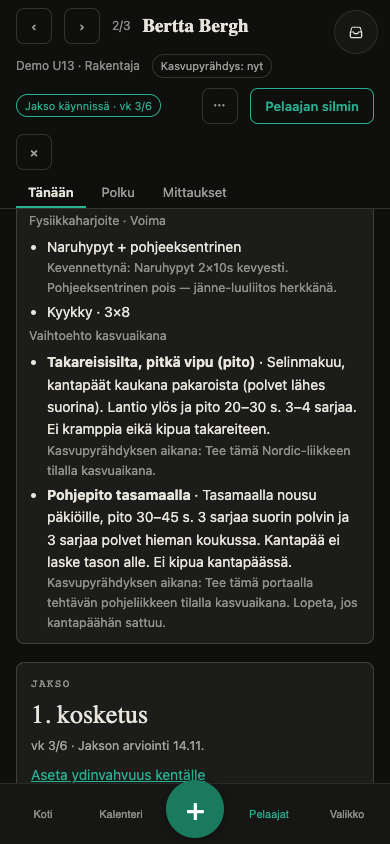
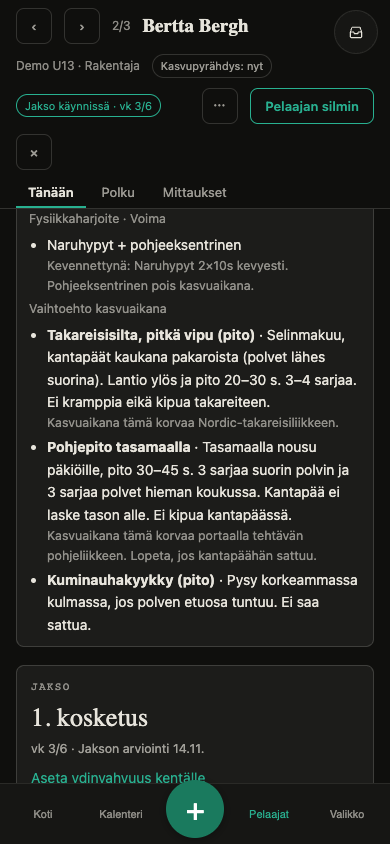
Kasvupyrähdys-fysiikka: tavallinen ohjelma ilman merkintää, kevennysrivi ilman perustelua, korvaavat ilman etuliitettä (+ kyykky → kuminauhakyykky); uudet kuvat

Changed region(s): [[0.0615, 0.2464, 0.9231, 0.7701], [0.0615, 0.8009, 0.5231, 0.9242]]

diff --git a/lib/tm_kasvupyrahdys.js b/lib/tm_kasvupyrahdys.js
@@ -2,7 +2,7 @@
    tm_kasvupyrahdys.js — kasvupyrähdys-fysiikka: Teron hyväksymä ENNEN / NYT / JÄLKEEN -taulu (116 olemassa olevaa harjoitetta) + 25 uutta harjoitetta (Teron / TalentMasterid Oy:n omaa aineistoa, docs/LISENSSIT.md).
    Dual-export: module.exports || window.TM_KASVUPYRAHDYS. PURE: ei DOM:ia, ei tallennusta.
    · Päätöskoodit: k = kyllä (normaalisti) · v = vain kevennettynä (lähteen oma kasvupyrähdysohje) · e = ei (ei näytetä). e/n/j = ENNEN / NYT / JÄLKEEN.
-   · Vaihe tulee tm_phv_tila.js:n tmPhvKuormaTila(pelaaja):sta: PRE → ennen · PH → nyt · POST/AN → jälkeen · LAH → ankarampi (ennen, nyt) · 'tuntematon' (varovainen, mittaamaton ikkunassa) → ankarin kolmesta · null (normaali kuorma) → ei suodatusta.
+   · Vaihe tulee tm_phv_tila.js:n tmPhvKuormaTila(pelaaja):sta: PRE → ennen · PH → nyt · POST/AN → jälkeen · LAH → ankarampi (ennen, nyt) · 'tuntematon' ja null (ei kasvupyrähdysmerkintää) → ei suodatusta, tavallinen ohjelma.
    · tmKpSuodata(liikkeet, tila, o) → { liikkeet, korvaavat }: ei → pois; vain kevennettynä → lähteen ohjeella (jos lähteellä ei ole omaa kevennettyä ohjetta, esim. kuntoutuspankki, liike jätetään pois); sama harjoite (sama nimi eri pankeissa) vain kerran; kun liike poistuu tai siitä poistetaan osa, ehdotetaan korvaavaa uusista.
    · NÄKYMÄ: näytetään vain nimi ja ohjeet. Tunnisteet (id), ketjukoodit (SBL, SFL, EX_…) ja Geminin perustelut eivät koskaan tule paluuarvojen näytettäviin kenttiin — vartija: tests/kasvupyrahdys_fysiikka.test.js.
    · DATA-lohko generoidaan: node scripts/phv_kasvupyrahdys_vie.cjs (lähde docs/design/idp-v2/42_kasvupyrahdys_hyvaksynta.json). ÄLÄ muokkaa käsin.
@@ -203,11 +203,11 @@
     kp_12_nimi: 'Takareisisilta, pitkä vipu (pito)',
     kp_12_vo: 'Selinmakuu, kantapäät kaukana pakaroista (polvet lähes suorina). Lantio ylös ja pito 20–30 s. 3–4 sarjaa. Ei kramppia eikä kipua takareiteen.',
     kp_12_po: 'Mene selällesi kantapäät kauas pakaroista. Nosta lantio ylös ja pidä 20–30 sekuntia. Takareisi saa tuntua, mutta ei saa sattua.',
-    kp_12_kp: 'Tee tämä Nordic-liikkeen tilalla kasvuaikana.',
+    kp_12_kp: 'Kasvuaikana tämä korvaa Nordic-takareisiliikkeen.',
     kp_13_nimi: 'Pohjepito tasamaalla',
     kp_13_vo: 'Tasamaalla nousu päkiöille, pito 30–45 s. 3 sarjaa suorin polvin ja 3 sarjaa polvet hieman koukussa. Kantapää ei laske tason alle. Ei kipua kantapäässä.',
     kp_13_po: 'Nouse varpaille lattialla ja pidä 30 sekuntia. Tee kolme kertaa suorin polvin ja kolme kertaa polvet vähän koukussa.',
-    kp_13_kp: 'Tee tämä portaalla tehtävän pohjeliikkeen tilalla kasvuaikana. Lopeta, jos kantapäähän sattuu.',
+    kp_13_kp: 'Kasvuaikana tämä korvaa portaalla tehtävän pohjeliikkeen. Lopeta, jos kantapäähän sattuu.',
     kp_14_nimi: 'Kuminauhakyykky (pito)',
     kp_14_vo: 'Paksu kuminauha polvitaipeissa kiintopisteeseen. Nojaa taakse sääret pystyssä ja pidä kivuttomassa kulmassa 4×30–45 s.',
     kp_14_po: 'Laita kuminauha polvien taakse ja kiinnitä se tukevaan paikkaan. Istu taaksepäin niin, että sääret pysyvät pystyssä. Pidä 30 sekuntia.',
@@ -274,19 +274,21 @@
   }
   function _nimiRivi(r) { return r.uusi ? FI['kp_' + r.k + '_nimi'] : r.nimi; }
   function _teksti(c, k) { var v = (c && typeof c.t === 'function') ? c.t(k) : k; return (v && v !== k) ? v : (FI[k] != null ? FI[k] : k); }
+  /* Kevennysrivi ilman perustelua: " — jänne-luuliitos herkkänä." / " — polven etuosa herkkä." → " kasvuaikana." (käännetty sv-teksti käytetään sellaisenaan). */
+  function _siisti(fi) { return String(fi).replace(/ — (jänne-luuliitos herkkänä|jänne-luuliitos herkkä|polven etuosa herkkä)\.$/, ' kasvuaikana.'); }
   function _tFi(c, fi) { var v = (c && typeof c.t === 'function') ? c.t(fi) : fi; return v || fi; }   // lähteen FI-teksti (sv-kartta avaimena FI-teksti; puuttuessa FI)
 
-  /* PHV-tila → vaihe: 'e' (ennen) | 'n' (nyt) | 'j' (jälkeen) | 'EN' (lähestyy: ennen+nyt) | 'KAIKKI' (varovainen) | null (ei suodatusta). */
+  /* PHV-tila → vaihe: 'e' (ennen) | 'n' (nyt) | 'j' (jälkeen) | 'EN' (lähestyy: ennen+nyt) | null (ei suodatusta: ei kasvupyrähdysmerkintää, mittaamaton tai normaali kuorma). */
   function tmKpVaihe(tila) {
     var t = String(tila == null ? '' : tila);
-    if (t === 'PRE') return 'e'; if (t === 'PH') return 'n'; if (t === 'POST' || t === 'AN') return 'j'; if (t === 'LAH') return 'EN'; if (t === 'tuntematon') return 'KAIKKI';
+    if (t === 'PRE') return 'e'; if (t === 'PH') return 'n'; if (t === 'POST' || t === 'AN') return 'j'; if (t === 'LAH') return 'EN';   // 'tuntematon' (ei kasvupyrähdysmerkintää) ja null → ei suodatusta: tavallinen ohjelma
     return null;
   }
   function tmKpPaatos(r, tila) {
     var v = tmKpVaihe(tila); if (!v || !r) return 'k';
     if (v === 'e' || v === 'n' || v === 'j') return r[v];
     if (v === 'EN') return _strict(r.e, r.n);
-    return _strict(_strict(r.e, r.n), r.j);
+    return 'k';
   }
   function tmKpEtsi(nimi) { return (_indeksi().nimi[_avain(nimi)] || []).slice(); }
   /* Sama harjoite (sama nimi, myös eri pankeissa) vain kerran: palauttaa listan ilman toistoja; o.aiemmat = jo käytetyt nimet (sama päivä/viikko). */
@@ -299,7 +301,7 @@
     var ids = {}; laukaisijat.forEach(function (r) { ids[String(r.id).toLowerCase()] = 1; });
     var ulos = []; var ph = String(tila) === 'PH';
     UUDET.forEach(function (u) {
-      if (ulos.length >= ((o && o.maxKorvaavat) || 2)) return;
+      if (ulos.length >= ((o && o.maxKorvaavat) || 3)) return;
       if (!u.korvaa.some(function (id) { return ids[String(id).toLowerCase()]; })) return;
       if (!_ikaOk(u, o && o.ikavaihe)) return;
       var p = tmKpPaatos(u, tila); if (p === 'e') return;
@@ -320,7 +322,7 @@
       if (p === 'v') {
         var lahde = rs.filter(function (r) { return !r.uusi && !r.hpp && r.phv; })[0] || null;
         var uusi = rs.filter(function (r) { return r.uusi; })[0] || null;
-        var teksti = lahde ? _tFi(o, lahde.phv) : (uusi ? _tFi(o, FI['kp_' + uusi.k + '_kp']) : null);
+        var teksti = lahde ? (function () { var x = _tFi(o, lahde.phv); return x === lahde.phv ? _siisti(x) : x; })() : (uusi ? _tFi(o, FI['kp_' + uusi.k + '_kp']) : null);
         if (teksti) { ulos.push(Object.assign({}, l, { kevennetty: teksti })); if (rs.some(function (r) { return r.pois; })) laukaisijat = laukaisijat.concat(rs); return; }
         // lähteellä ei omaa kevennettyä ohjetta → ei näytetä (varovaisin); jatkuu 'e'-haaraan
       }

diff --git a/tests/i18n_sv_era_lib.test.js b/tests/i18n_sv_era_lib.test.js
@@ -15,8 +15,8 @@ const LIB = require('../lib/tm_lib_i18n.js');
 const SV = LIB.TM_LIB_I18N.sv;
 const LIBIT = ['tm_kasvupyrahdys', 'tm_kt_arviointi', 'tm_kt_alue', 'tm_kt_toimintakortti', 'tm_sanasto', 'tm_kehitystyopoyta', 'tm_kevyt_katselmus', 'tm_klippi_perhe', 'tm_mediaviesti', 'tm_reitin_valinta', 'tm_ryhmat', 'tm_taman_tueksi', 'tm_tanaan_kentta', 'tm_tanaan_signaali', 'tm_viikkokatsaus'];
 // Libin FI-avaimet, joille sv puuttuu (palautetaan Geminille; fi-fallback). Portti on elävä: sv saapui → poista rivi.
-// erä 52 (kasvupyrähdys-fysiikka, 103 riviä: docs/i18n/sv_kaannoserae_52_gemini.json) odottaa Geminiltä — poista kun sv saapuu
-const LIB_SV_ODOTTAA = ['ry_vastaava', 'ry_vastaava_ohje', 'ry_ei_vastaavaa', 'kn_virhe_joukkue', 'ts_tauko', 'ts_tauko_ilman', 'kt_l_seuraava_harjoitus', 'kt_l_seuraava_ottelu', 'kt_v_tauko', 'kt_l_tauko', 'mv_media_video', 'mv_media_kuva', 'mv_media_linkki', 'mv_ryhma', 'mv_valitse_ryhma', 'mv_ei_ryhmia', 'mv_ryhma_yhteenveto', 'mv_ryhma_yhteenveto_ei_lupaa', 'mv_virhe_ryhma', 'mv_virhe_ryhma_tyhja', 'mv_rivi_ryhma', 'mv_lahetetty_ryhma', 'mv_oma_video', 'mv_oma_video_tulossa', 'mv_oma_video_ei_kaytossa', 'mv_oma_video_tarjous', 'mv_oma_video_pyyda', 'mv_oma_video_aihe', 'mv_virhe_lahde', 'kt_aseta_alue', 'kt_kumoa_virhe', 'kp_01_nimi', 'kp_01_vo', 'kp_01_po', 'kp_01_kp', 'kp_02_nimi', 'kp_02_vo', 'kp_02_po', 'kp_02_kp', 'kp_03_nimi', 'kp_03_vo', 'kp_03_po', 'kp_03_kp', 'kp_04_nimi', 'kp_04_vo', 'kp_04_po', 'kp_04_kp', 'kp_05_nimi', 'kp_05_vo', 'kp_05_po', 'kp_05_kp', 'kp_06_nimi', 'kp_06_vo', 'kp_06_po', 'kp_06_kp', 'kp_07_nimi', 'kp_07_vo', 'kp_07_po', 'kp_07_kp', 'kp_08_nimi', 'kp_08_vo', 'kp_08_po', 'kp_08_kp', 'kp_09_nimi', 'kp_09_vo', 'kp_09_po', 'kp_09_kp', 'kp_10_nimi', 'kp_10_vo', 'kp_10_po', 'kp_10_kp', 'kp_11_nimi', 'kp_11_vo', 'kp_11_po', 'kp_11_kp', 'kp_12_nimi', 'kp_12_vo', 'kp_12_po', 'kp_12_kp', 'kp_13_nimi', 'kp_13_vo', 'kp_13_po', 'kp_13_kp', 'kp_14_nimi', 'kp_14_vo', 'kp_14_po', 'kp_14_kp', 'kp_15_nimi', 'kp_15_vo', 'kp_15_po', 'kp_15_kp', 'kp_16_nimi', 'kp_16_vo', 'kp_16_po', 'kp_16_kp', 'kp_17_nimi', 'kp_17_vo', 'kp_17_po', 'kp_17_kp', 'kp_18_nimi', 'kp_18_vo', 'kp_18_po', 'kp_18_kp', 'kp_19_nimi', 'kp_19_vo', 'kp_19_po', 'kp_19_kp', 'kp_20_nimi', 'kp_20_vo', 'kp_20_po', 'kp_20_kp', 'kp_21_nimi', 'kp_21_vo', 'kp_21_po', 'kp_21_kp', 'kp_22_nimi', 'kp_22_vo', 'kp_22_po', 'kp_22_kp', 'kp_23_nimi', 'kp_23_vo', 'kp_23_po', 'kp_23_kp', 'kp_24_nimi', 'kp_24_vo', 'kp_24_po', 'kp_24_kp', 'kp_25_nimi', 'kp_25_vo', 'kp_25_po', 'kp_25_kp', 'kt_tk_kevennetty', 'kt_tk_vaihtoehto', 'kt_tk_kasvuaika']   // erä 44 (B1): CTA "Aseta ydinvahvuus kentälle → Polku" — poista kun sv saapuu · erä 42: klippi ryhmälle + oma videoklippi -varaus (docs/i18n/sv_kaannoserae_42_gemini.json);   // − kt_arviot_eroavat, kt_l_vk_tanaan, kt_jakso, kt_ei_jaksoa_kortti, kt_katselmus, kt_vk_lyhyt, ts_muistuta_nappi: sv saapui erässä 19, viety scripts/i18n_vie_sv_era19_osa.cjs:llä   // + Sibbo-klippipolku: linkin tunnistusrivin mediatyyppi (docs/i18n/sv_kaannoserae_36.json)   // + kalenterikytkentä (K35, tauko ja seuraava tapahtuma): sv Gemini-erään   // erä 21 (Tänään-välilehti, PR 3): sv tyhjä Geminille;   // Tyhjä: sv-erä 3 (lib.tm_kehitystyopoyta 44 + lib.tm_tanaan_signaali 1) vietiin scripts/i18n_vie_sv_era3.cjs:llä. Uusi lib-avain → lisää tähän kunnes sv saapuu.
+// erä 52 (kasvupyrähdys-fysiikka, 102 riviä: docs/i18n/sv_kaannoserae_52_gemini.json) odottaa Geminiltä — poista kun sv saapuu
+const LIB_SV_ODOTTAA = ['ry_vastaava', 'ry_vastaava_ohje', 'ry_ei_vastaavaa', 'kn_virhe_joukkue', 'ts_tauko', 'ts_tauko_ilman', 'kt_l_seuraava_harjoitus', 'kt_l_seuraava_ottelu', 'kt_v_tauko', 'kt_l_tauko', 'mv_media_video', 'mv_media_kuva', 'mv_media_linkki', 'mv_ryhma', 'mv_valitse_ryhma', 'mv_ei_ryhmia', 'mv_ryhma_yhteenveto', 'mv_ryhma_yhteenveto_ei_lupaa', 'mv_virhe_ryhma', 'mv_virhe_ryhma_tyhja', 'mv_rivi_ryhma', 'mv_lahetetty_ryhma', 'mv_oma_video', 'mv_oma_video_tulossa', 'mv_oma_video_ei_kaytossa', 'mv_oma_video_tarjous', 'mv_oma_video_pyyda', 'mv_oma_video_aihe', 'mv_virhe_lahde', 'kt_aseta_alue', 'kt_kumoa_virhe', 'kp_01_nimi', 'kp_01_vo', 'kp_01_po', 'kp_01_kp', 'kp_02_nimi', 'kp_02_vo', 'kp_02_po', 'kp_02_kp', 'kp_03_nimi', 'kp_03_vo', 'kp_03_po', 'kp_03_kp', 'kp_04_nimi', 'kp_04_vo', 'kp_04_po', 'kp_04_kp', 'kp_05_nimi', 'kp_05_vo', 'kp_05_po', 'kp_05_kp', 'kp_06_nimi', 'kp_06_vo', 'kp_06_po', 'kp_06_kp', 'kp_07_nimi', 'kp_07_vo', 'kp_07_po', 'kp_07_kp', 'kp_08_nimi', 'kp_08_vo', 'kp_08_po', 'kp_08_kp', 'kp_09_nimi', 'kp_09_vo', 'kp_09_po', 'kp_09_kp', 'kp_10_nimi', 'kp_10_vo', 'kp_10_po', 'kp_10_kp', 'kp_11_nimi', 'kp_11_vo', 'kp_11_po', 'kp_11_kp', 'kp_12_nimi', 'kp_12_vo', 'kp_12_po', 'kp_12_kp', 'kp_13_nimi', 'kp_13_vo', 'kp_13_po', 'kp_13_kp', 'kp_14_nimi', 'kp_14_vo', 'kp_14_po', 'kp_14_kp', 'kp_15_nimi', 'kp_15_vo', 'kp_15_po', 'kp_15_kp', 'kp_16_nimi', 'kp_16_vo', 'kp_16_po', 'kp_16_kp', 'kp_17_nimi', 'kp_17_vo', 'kp_17_po', 'kp_17_kp', 'kp_18_nimi', 'kp_18_vo', 'kp_18_po', 'kp_18_kp', 'kp_19_nimi', 'kp_19_vo', 'kp_19_po', 'kp_19_kp', 'kp_20_nimi', 'kp_20_vo', 'kp_20_po', 'kp_20_kp', 'kp_21_nimi', 'kp_21_vo', 'kp_21_po', 'kp_21_kp', 'kp_22_nimi', 'kp_22_vo', 'kp_22_po', 'kp_22_kp', 'kp_23_nimi', 'kp_23_vo', 'kp_23_po', 'kp_23_kp', 'kp_24_nimi', 'kp_24_vo', 'kp_24_po', 'kp_24_kp', 'kp_25_nimi', 'kp_25_vo', 'kp_25_po', 'kp_25_kp', 'kt_tk_kevennetty', 'kt_tk_vaihtoehto']   // erä 44 (B1): CTA "Aseta ydinvahvuus kentälle → Polku" — poista kun sv saapuu · erä 42: klippi ryhmälle + oma videoklippi -varaus (docs/i18n/sv_kaannoserae_42_gemini.json);   // − kt_arviot_eroavat, kt_l_vk_tanaan, kt_jakso, kt_ei_jaksoa_kortti, kt_katselmus, kt_vk_lyhyt, ts_muistuta_nappi: sv saapui erässä 19, viety scripts/i18n_vie_sv_era19_osa.cjs:llä   // + Sibbo-klippipolku: linkin tunnistusrivin mediatyyppi (docs/i18n/sv_kaannoserae_36.json)   // + kalenterikytkentä (K35, tauko ja seuraava tapahtuma): sv Gemini-erään   // erä 21 (Tänään-välilehti, PR 3): sv tyhjä Geminille;   // Tyhjä: sv-erä 3 (lib.tm_kehitystyopoyta 44 + lib.tm_tanaan_signaali 1) vietiin scripts/i18n_vie_sv_era3.cjs:llä. Uusi lib-avain → lisää tähän kunnes sv saapuu.
 const _VANHA_LIB_ODOTTAA = [];   // ts_otsikko saapui Gemini-erässä 2 (lib.tm_tanaan_signaali) ja vietiin scripts/i18n_vie_sv_era2.cjs:llä
 // PR 5: erän 2 lib-osiot (ADAR-nimet, rubriikit, Kenttä, ADAR-tekstit, pelihavainto-valinta, havaintohistoria, ts_otsikko) — avain = lib-avain tai fi-teksti
 const ERA2 = JSON.parse(lue('docs/i18n/sv_kaannoserae_2.json'));

diff --git a/tests/kasvupyrahdys_fysiikka.test.js b/tests/kasvupyrahdys_fysiikka.test.js
@@ -36,9 +36,9 @@ describe('data: Teron hyväksymä taulu', () => {
 
 describe('päätössäännöt', () => {
   const liike = (nimi) => ({ liike: nimi, toistot: '3×' });
-  it('vaihe: PRE → ennen · PH → nyt · POST/AN → jälkeen · LAH ankarampi · tuntematon ankarin · null ei suodatusta', () => {
-    expect(['PRE', 'PH', 'POST', 'AN', 'LAH', 'tuntematon', null].map(KP.tmKpVaihe)).toEqual(['e', 'n', 'j', 'j', 'EN', 'KAIKKI', null]);
-    const [nord] = KP.tmKpEtsi('Nordic Hamstring'); expect(['PRE', 'PH', 'POST', 'LAH', 'tuntematon', null].map((t) => KP.tmKpPaatos(nord, t))).toEqual(['v', 'e', 'k', 'e', 'e', 'k']);
+  it('vaihe: PRE → ennen · PH → nyt · POST/AN → jälkeen · LAH ankarampi · tuntematon (ei merkintää) ja null → ei suodatusta', () => {
+    expect(['PRE', 'PH', 'POST', 'AN', 'LAH', 'tuntematon', null].map(KP.tmKpVaihe)).toEqual(['e', 'n', 'j', 'j', 'EN', null, null]);
+    const [nord] = KP.tmKpEtsi('Nordic Hamstring'); expect(['PRE', 'PH', 'POST', 'LAH', 'tuntematon', null].map((t) => KP.tmKpPaatos(nord, t))).toEqual(['v', 'e', 'k', 'e', 'k', 'k']);
   });
   it('NYT = ei → liike ei näy; ENNEN/JÄLKEEN → näkyy (CMJ: ennen kyllä, nyt ei, jälkeen kyllä)', () => {
     expect(KP.tmKpSuodata([liike('Kevennyshyppy (CMJ)')], 'PH').liikkeet).toEqual([]);
@@ -46,7 +46,7 @@ describe('päätössäännöt', () => {
     expect(KP.tmKpSuodata([liike('Kevennyshyppy (CMJ)')], null).liikkeet).toHaveLength(1);   // normaali kuorma → ei suodatusta
   });
   it('vain kevennettynä → lähteen oma ohje (kevennetty); lähteellä ei omaa ohjetta (kuntoutuspankki) → ei näytetä', () => {
-    const r = KP.tmKpSuodata([liike('Naruhypyt + pohjeeksentrinen')], 'PH').liikkeet[0]; expect(r.kevennetty).toBe('Naruhypyt 2×10s kevyesti. Pohjeeksentrinen pois — jänne-luuliitos herkkänä.');
+    const r = KP.tmKpSuodata([liike('Naruhypyt + pohjeeksentrinen')], 'PH').liikkeet[0]; expect(r.kevennetty).toBe('Naruhypyt 2×10s kevyesti. Pohjeeksentrinen pois kasvuaikana.');
     expect(KP.tmKpSuodata([liike('Nordic Hamstring')], 'PRE').liikkeet).toEqual([]);   // HPP: ennen = vain kevennettynä, mutta lähteellä ei kevennettyä ohjetta
     expect(KP.tmKpSuodata([liike('Seuran oma kyykky')], 'PH').liikkeet).toHaveLength(1);   // tuntematon liike ei kosketa
   });
@@ -62,6 +62,29 @@ describe('päätössäännöt', () => {
     const c = KP.tmKpSuodata([liike('Naruhypyt + pohjeeksentrinen')], 'PH'); expect(c.korvaavat.map((v) => v.nimi)).toContain('Pohjepito tasamaalla');   // osa pois
     const d = KP.tmKpSuodata([liike('Naruhypyt + pohjeeksentrinen')], 'PRE'); expect(d.korvaavat).toEqual([]);
     expect(KP.tmKpSuodata([liike('Nordic Hamstring')], 'PH', { ikavaihe: 'Leikkijä' }).korvaavat.map((v) => v.nimi)).not.toContain('Takareisisilta, pitkä vipu (pito)');   // ikävaihe: rakentaja/showcase
+  });
+});
+
+describe('tavallinen ohjelma ja kasvuajan ohjelma (kuvapalaute 14.10.)', () => {
+  const OH = [{ liike: 'Nordic Hamstring', toistot: '3×5' }, { liike: 'Naruhypyt + pohjeeksentrinen' }, { liike: 'Kyykky — hallittu', toistot: '3×8' }];
+  const kortti = (tila) => TK.tmKtToimintakorttiHTML(TK.tmKtToimintakortti({ id: 'p1', jaksofokus: { konsepti_avain: 'y_h1', domeeni: 'fyysinen', ohjelma: { nimi: 'Voima', liikkeet: OH } } }, { tt: {}, phvTila: tila, phv: tila }), {});
+  it('ei kasvupyrähdysmerkintää (null / mittaamaton) ja JÄLKEEN: tavallinen ohjelma — kaikki kolme mukana, ei "Kevennettynä"-riviä eikä "Vaihtoehto kasvuaikana" -osiota', () => {
+    for (const tila of [null, undefined, 'tuntematon', 'POST', 'AN']) {
+      const h = kortti(tila); for (const n of ['Nordic Hamstring', 'Naruhypyt + pohjeeksentrinen', 'Kyykky — hallittu']) expect(h, String(tila)).toContain(n);
+      expect(h, String(tila)).not.toContain('data-kt-kevennetty'); expect(h, String(tila)).not.toContain('data-kt-vaihtoehdot'); expect(h, String(tila)).not.toMatch(/Kevennettynä|Vaihtoehto kasvuaikana|kasvuaikana/);
+    }
+  });
+  it('kasvupyrähdys (PH): Nordic ja kyykky pois, pohjeeksentrinen kevennettynä ("Pohjeeksentrinen pois kasvuaikana", ei perustelua), kolme vaihtoehtoa: takareisisilta, pohjepito, kuminauhakyykky; ei etuliite-tuplausta', () => {
+    const h = kortti('PH'), t = h.replace(/<[^>]+>/g, ' ');
+    expect(t).not.toContain('Nordic Hamstring'); expect(t).not.toContain('Kyykky — hallittu');
+    expect(t).toContain('Naruhypyt + pohjeeksentrinen'); expect(t).toContain('Kevennettynä: Naruhypyt 2×10s kevyesti. Pohjeeksentrinen pois kasvuaikana.'); expect(t).not.toMatch(/jänne-luuliitos/);
+    expect(t).toContain('Vaihtoehto kasvuaikana'); for (const n of ['Takareisisilta, pitkä vipu (pito)', 'Pohjepito tasamaalla', 'Kuminauhakyykky (pito)']) expect(t).toContain(n);
+    expect(t).toContain('Kasvuaikana tämä korvaa Nordic-takareisiliikkeen.'); expect(t).not.toContain('Kasvupyrähdyksen aikana'); expect(t).not.toMatch(/kasvuaikana\.[^<]*kasvuaikana\./);
+  });
+  it('kevennysteksti: vain perustelulause lähtee (" — jänne-luuliitos herkkänä" / " — polven etuosa herkkä"), ohje säilyy', () => {
+    const k = (nimi) => KP.tmKpSuodata([{ liike: nimi }], 'PH').liikkeet[0].kevennetty;
+    expect(k('Hip flexor + askelkyykky-kävely')).toBe('Pelkkä 90/90-venytys 3×30s per puoli. Ei kyykkyä.'); expect(k('Lonkka auki + askelkävelyt')).toBe('Pelkkä 90/90-venytys 3×30s. Ei kyykkyä kasvuaikana.');
+    expect(k('Pistoolikyykky + Nordic curl yhdistelmä')).toBe('Pistoolikyykky 2×6 tuettuna. Nordic curl pois kasvuaikana.');
   });
 });
 

diff --git a/tests/b3b4_toimintakortti.test.js b/tests/b3b4_toimintakortti.test.js
@@ -101,14 +101,26 @@ describe.skipIf(!(process.env.TM_CHROME_TESTS !== '0' && CHROME))('toimintakortt
       const b = await kaynnista(selain, { rooli: 'valmentaja', hash: '#pelaaja/p2/tanaan' }); await odota(b.p); expect(await b.p.locator('[data-kt-tk-fysiikka]').count()).toBe(0); await b.sk.close();
     } finally { await selain.close(); }
   }, 90000);
+  it('ei kasvupyrähdysmerkintää / JÄLKEEN: tavallinen ohjelma — Nordic, pohjeeksentrinen ja kyykky mukana, ei "Kevennettynä" eikä "Vaihtoehto kasvuaikana"', async () => {
+    await avaa(); try {
+      const pel = (jf, lisa) => PELAAJAT.map((x) => x.id === 'p2' ? Object.assign({}, x, lisa || {}, { jaksofokus: Object.assign({}, x.jaksofokus, jf) }) : x);
+      const oh = { nimi: 'Voima', liikkeet: [{ liike: 'Nordic Hamstring', toistot: '3×5' }, { liike: 'Naruhypyt + pohjeeksentrinen' }, { liike: 'Kyykky — hallittu', toistot: '3×8' }] };
+      for (const lisa of [{}, { phv_tila: 'POST', biologinenIka_viimeisin: { offset: 0.8, pvm: '2026-09-01' } }]) {
+        const a = await kaynnista(selain, { rooli: 'valmentaja', hash: '#pelaaja/p2/tanaan', pelaajat: pel({ domeeni: 'fyysinen', ohjelma: oh }, lisa) }); await odota(a.p);
+        const t = await a.p.locator('[data-kt-tk-fysiikka]').innerText();
+        for (const n of ['Nordic Hamstring', 'Naruhypyt + pohjeeksentrinen', 'Kyykky — hallittu']) expect(t, JSON.stringify(lisa)).toContain(n);
+        expect(t).not.toMatch(/Kevennettynä|Vaihtoehto kasvuaikana|kasvuaikana/); await a.sk.close();
+      }
+    } finally { await selain.close(); }
+  }, 90000);
   it('kasvupyrähdys (PH, mitattu): "ei" -harjoite pois, kevennetty lähteen ohjeella, korvaava ehdotus; ei tunnisteita näkyvissä; lib ladattu selaimessa', async () => {
     await avaa(); try {
       const pel = (jf, lisa) => PELAAJAT.map((x) => x.id === 'p2' ? Object.assign({}, x, lisa || {}, { jaksofokus: Object.assign({}, x.jaksofokus, jf) }) : x);
-      const oh = { nimi: 'Voima', liikkeet: [{ liike: 'Nordic Hamstring', toistot: '3×5' }, { liike: 'Naruhypyt + pohjeeksentrinen' }, { liike: 'Kyykky' }] };
+      const oh = { nimi: 'Voima', liikkeet: [{ liike: 'Nordic Hamstring', toistot: '3×5' }, { liike: 'Naruhypyt + pohjeeksentrinen' }, { liike: 'Kyykky — hallittu', toistot: '3×8' }] };
       const a = await kaynnista(selain, { rooli: 'valmentaja', hash: '#pelaaja/p2/tanaan', pelaajat: pel({ domeeni: 'fyysinen', ohjelma: oh }, { phv_tila: 'PH', biologinenIka_viimeisin: { offset: 0, pvm: '2026-09-01' } }) }); await odota(a.p);
       expect(await a.p.evaluate(() => typeof window.TM_KASVUPYRAHDYS)).toBe('object');
       const t = await a.p.locator('[data-kt-tk-fysiikka]').innerText();
-      expect(t).not.toMatch(/Nordic Hamstring/); expect(t).toMatch(/Kyykky/); expect(t).toMatch(/Kevennettynä: Naruhypyt 2×10s/); expect(t).toMatch(/Vaihtoehto kasvuaikana/); expect(t).toMatch(/Takareisisilta/);
+      expect(t).not.toMatch(/Nordic Hamstring/); expect(t).not.toMatch(/Kyykky — hallittu/); expect(t).toMatch(/Kevennettynä: Naruhypyt 2×10s kevyesti\. Pohjeeksentrinen pois kasvuaikana\./); expect(t).not.toMatch(/jänne-luuliitos|Kasvupyrähdyksen aikana/); expect(t).toMatch(/Vaihtoehto kasvuaikana/); for (const n of ['Takareisisilta', 'Pohjepito', 'Kuminauhakyykky']) expect(t).toContain(n); expect(t).toContain('Kasvuaikana tämä korvaa Nordic-takareisiliikkeen.');
       expect(t).not.toMatch(/\b(SBL|SFL|EX_[A-Z_]+|D\.sbl\.\d)\b/); await a.sk.close();
     } finally { await selain.close(); }
   }, 90000);
@@ -126,7 +138,7 @@ describe.skipIf(!(process.env.TM_CHROME_TESTS !== '0' && CHROME))('toimintakortt
   it('TM_KUVAT=1 · kuvat 1280 + 390: fysiikkaosio kasvupyrähdyspelaajalla (NYT) ja ilman', async () => {
     if (!process.env.TM_KUVAT) return; mkdirSync(KUVAT, { recursive: true }); await avaa(); try {
       const pel = (jf, lisa) => PELAAJAT.map((x) => x.id === 'p2' ? Object.assign({}, x, lisa || {}, { jaksofokus: Object.assign({}, x.jaksofokus, jf) }) : x);
-      const oh = { nimi: 'Voima', liikkeet: [{ liike: 'Nordic Hamstring', toistot: '3×5' }, { liike: 'Naruhypyt + pohjeeksentrinen' }, { liike: 'Kyykky', toistot: '3×8' }] };
+      const oh = { nimi: 'Voima', liikkeet: [{ liike: 'Nordic Hamstring', toistot: '3×5' }, { liike: 'Naruhypyt + pohjeeksentrinen' }, { liike: 'Kyykky — hallittu', toistot: '3×8' }] };
       for (const [n, w, h] of [['1280', 1280, 900], ['390', 390, 844]]) for (const [nimi, lisa] of [['kasvupyrahdys-nyt', { phv_tila: 'PH', biologinenIka_viimeisin: { offset: 0, pvm: '2026-09-01' } }], ['ei-kasvupyrahdysta', {}]]) {
         const { sk, p } = await kaynnista(selain, { rooli: 'valmentaja', hash: '#pelaaja/p2/tanaan', leveys: w, korkeus: h, pelaajat: pel({ domeeni: 'fyysinen', ohjelma: oh }, lisa) }); await odota(p);
         await p.locator('[data-kt-tk-fysiikka]').scrollIntoViewIfNeeded(); await p.waitForTimeout(250); await p.screenshot({ path: join(KUVAT, 'fysiikka-' + nimi + '-' + n + '.png') }); await sk.close();

diff --git a/lib/tm_kt_toimintakortti.js b/lib/tm_kt_toimintakortti.js
@@ -15,7 +15,7 @@
     kt_tk_otsikko: 'Miten valmennetaan', kt_tk_seuran_harjoite: 'Seuran harjoite', kt_tk_fysiikka: 'Fysiikkaharjoite', kt_tk_katso_video: 'Katso video', kt_tk_lisaa_video: '+ Lisää video', kt_tk_ohjelma: 'Jakson ohjelma',
     kt_tk_video_otsikko: 'Lisää video', kt_tk_video_url: 'Videon linkki (https)', kt_tk_video_ohje: 'Julkinen video linkkinä. Videota ei tallenneta omalle palvelimelle.', kt_tk_video_virhe: 'Linkin pitää alkaa https://',
     kt_tk_video_tallenna: 'Tallenna video', kt_tk_video_tallennettu: 'Video lisätty ✓', kt_tk_video_epaonnistui: 'Videon tallennus epäonnistui', kt_tk_peliharjoite: 'Peliharjoite', kt_tk_kysy: 'Kysy pelaajalta', kt_tk_kysy_itselta: 'Kysy itseltäsi',
-    kt_tk_kevennetty: 'Kevennettynä', kt_tk_vaihtoehto: 'Vaihtoehto kasvuaikana', kt_tk_kasvuaika: 'Kasvupyrähdyksen aikana'
+    kt_tk_kevennetty: 'Kevennettynä', kt_tk_vaihtoehto: 'Vaihtoehto kasvuaikana'
   };
   var VIDEON_LISAAJAT = { vp: 1, urheilutoimenjohtaja: 1, super_admin: 1 };
   function _esc(s) { return String(s == null ? '' : s).replace(/&/g, '&amp;').replace(/</g, '&lt;').replace(/>/g, '&gt;').replace(/"/g, '&quot;'); }
@@ -67,7 +67,7 @@
     if (k.fysiikka) {
       h += '<div class="kt-tk-r" data-kt-tk-fysiikka><div class="kt-tk-k">' + t('kt_tk_fysiikka') + (k.fysiikka.nimi ? ' · ' + esc(k.fysiikka.nimi) : '') + '</div>';
       if (k.fysiikka.liikkeet.length) h += '<ul class="kt-tk-kysy">' + k.fysiikka.liikkeet.map(function (l) { return '<li>' + esc(l.liike) + (l.toistot ? ' · ' + esc(l.toistot) : '') + (l.video_url ? ' · <a class="kt-linkki" href="' + esc(l.video_url) + '" target="_blank" rel="noopener noreferrer">' + t('kt_tk_katso_video') + ' · ' + esc(tmKtVideoHost(l.video_url)) + '</a>' : '') + (l.kevennetty ? '<div class="kt-tk-k" data-kt-kevennetty>' + t('kt_tk_kevennetty') + ': ' + esc(l.kevennetty) + '</div>' : '') + '</li>'; }).join('') + '</ul>';
-      if ((k.fysiikka.korvaavat || []).length) h += '<div class="kt-tk-k" data-kt-vaihtoehdot>' + t('kt_tk_vaihtoehto') + '</div><ul class="kt-tk-kysy">' + k.fysiikka.korvaavat.map(function (v) { return '<li><b>' + esc(v.nimi) + '</b> · ' + esc(v.ohje) + (v.kp ? '<div class="kt-tk-k">' + t('kt_tk_kasvuaika') + ': ' + esc(v.kp) + '</div>' : '') + '</li>'; }).join('') + '</ul>';
+      if ((k.fysiikka.korvaavat || []).length) h += '<div class="kt-tk-k" data-kt-vaihtoehdot>' + t('kt_tk_vaihtoehto') + '</div><ul class="kt-tk-kysy">' + k.fysiikka.korvaavat.map(function (v) { return '<li><b>' + esc(v.nimi) + '</b> · ' + esc(v.ohje) + (v.kp ? '<div class="kt-tk-k">' + esc(v.kp) + '</div>' : '') + '</li>'; }).join('') + '</ul>';
       h += '</div>';
     }
     return h + '</section>';

diff --git a/TalentMaster_Kehitystyopoyta.html b/TalentMaster_Kehitystyopoyta.html
@@ -68,8 +68,8 @@
 <script src="lib/tm_sheet.js?v=1"></script>
 <script src="lib/tm_kt_havainto.js?v=2"></script>
 <script src="lib/tm_kt_jakso.js?v=2"></script>
-<script src="lib/tm_kasvupyrahdys.js?v=1"></script>   <!-- kasvupyrähdys-fysiikka: Teron hyväksymä ENNEN/NYT/JÄLKEEN-taulu + 25 uutta harjoitetta — ENNEN toimintakorttia (suodatus) -->
-<script src="lib/tm_kt_toimintakortti.js?v=3"></script>
+<script src="lib/tm_kasvupyrahdys.js?v=3"></script>   <!-- kasvupyrähdys-fysiikka: Teron hyväksymä ENNEN/NYT/JÄLKEEN-taulu + 25 uutta harjoitetta — ENNEN toimintakorttia (suodatus) -->
+<script src="lib/tm_kt_toimintakortti.js?v=4"></script>
 <script src="lib/tm_kalenteri_lataus.js?v=1"></script>
 <script src="lib/tm_kt_arviointi.js?v=3"></script>
 <script src="lib/tm_kt_alue.js?v=2"></script>
